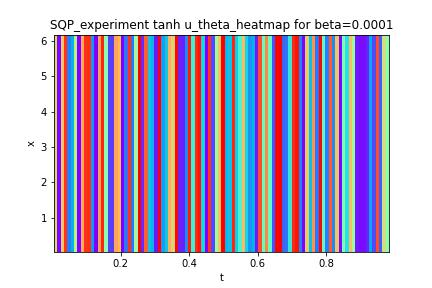
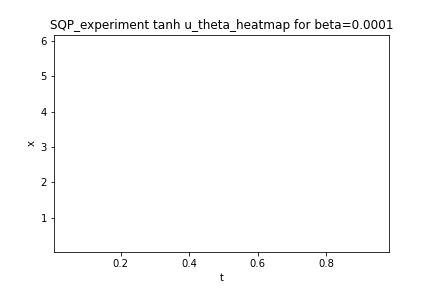
current

diff --git a/pde_cons_opt_code/main1.py b/pde_cons_opt_code/main1.py
@@ -11,7 +11,6 @@ from PINN_experiment.optim_PINN import PINN
 from l1_Penalty_experiment.optim_l1_penalty import l1Penalty
 from l2_Penalty_experiment.optim_l2_penalty import l2Penalty
 from linfinity_Penalty_experiment.optim_linfinity_penalty import linfinityPenalty
-from Han_Penalty_experiment.optim_han_penalty import HanPenalty
 from Cubic_Penalty_experiment.optim_cubic_penalty import CubicPenalty
 from Augmented_Lag_experiment.optim_aug_lag import AugLag
 from Pillo_Penalty_experiment.optim_pillo_penalty import PilloPenalty
@@ -37,10 +36,10 @@ from multiprocessing import Pool
 
 
 #######################################config for data#######################################
-beta_list = [10**-4, 30]
-# beta_list = [30]
+# beta_list = [10**-4, 30]
+beta_list = [10**-4]
 N=100
-M=100
+M=5
 data_key_num = 1000
 dim = 2
 Datas = Data(N=N, M=M, key_num=data_key_num, dim=dim)
@@ -65,8 +64,8 @@ eval_dataloader = DataLoader(Data=eval_Datas)
 NN_key_num = 345
 key = random.PRNGKey(NN_key_num)
 # features = [10, 10, 10, 10, 1]
-features = [10, 10, 1] # 搭配 SQP_num_iter = 100， hessian_param = 0.6 # 0.6最好， init_stepsize = 1.0， line_search_tol = 0.001， line_search_max_iter = 30， line_search_condition = "strong-wolfe" ，line_search_decrease_factor = 0.8
-# features = [2, 3, 1]
+# features = [10, 10, 1] # 搭配 SQP_num_iter = 100， hessian_param = 0.6 # 0.6最好， init_stepsize = 1.0， line_search_tol = 0.001， line_search_max_iter = 30， line_search_condition = "strong-wolfe" ，line_search_decrease_factor = 0.8
+features = [2, 3, 1]
 ####################################### config for NN #######################################
 
 
@@ -77,7 +76,7 @@ penalty_param = 1
 
 
 ####################################### config for lagrange multiplier #######################################
-mul = jnp.ones(2*M) # initial  for Han_penalty_experiment, Pillo_Penalty_experiment, Augmented_Lag_experiment, New_Augmented_Lag_experiment
+mul = jnp.ones(2*M) # initial  for Pillo_Penalty_experiment, Augmented_Lag_experiment, New_Augmented_Lag_experiment
 mul_num_echos = 10 # for Pillo_Penalty_experiment
 alpha = 150 # for New_Augmented_Lag_experiment
 ####################################### config for lagrange multiplier #######################################
@@ -85,8 +84,9 @@ alpha = 150 # for New_Augmented_Lag_experiment
 
 ####################################### config for Adam #######################################
 uncons_optim_num_echos = 2000
-uncons_optim_learning_rate = 0.01
-cons_violation = 10 # threshold for updating penalty param
+uncons_optim_learning_rate = 0.001
+cons_violation = 0.001 # threshold for updating penalty param
+panalty_param_upper_bound = 150
 ####################################### config for Adam #######################################
 
 
@@ -116,18 +116,17 @@ group_labels = list(range(1,2*M+1)) * 2
 #                     'l2_Penalty_experiment', \
 #                     'linfinity_Penalty_experiment', \
 #                     'Cubic_Penalty_experiment', \
-#                     'Han_penalty_experiment', \
-#                     'Augmented_Lag_experiment', \    #得有increase penalty param
+#                     'Augmented_Lag_experiment', \    
 #                     'Pillo_Penalty_experiment', \
-#                     'New_Augmented_Lag_experiment',\  #问题
-#                     'Fletcher_Penalty_experiment', \  #问题
+#                     'New_Augmented_Lag_experiment',\  #检查
+#                     'Fletcher_Penalty_experiment', \  
 #                     'SQP_experiment']:
-for experiment in ['SQP_experiment']:
-
-    for activation_input in ['sin', \
-                            'tanh', \
-                            'cos']:
-    # for activation_input in ['tanh']:
+# for experiment in ['PINN_experiment',"l1_Penalty_experiment",'l2_Penalty_experiment','linfinity_Penalty_experiment','Cubic_Penalty_experiment']:
+for experiment in ['Augmented_Lag_experiment']:
+    # for activation_input in ['sin', \
+    #                         'tanh', \
+    #                         'cos']:
+    for activation_input in ['identity']:
 
         if activation_input == "sin":
             activation = jnp.sin
@@ -135,8 +134,13 @@ for experiment in ['SQP_experiment']:
             activation = nn.tanh
         elif activation_input == "cos":
             activation = jnp.cos
-            
+        elif activation_input == "identity":
+            def identity(x):
+                return x
+            activation = identity
+
         activation_name = activation.__name__
+        
 
         absolute_error_list = []
         l2_relative_error_list = []
@@ -177,9 +181,6 @@ for experiment in ['SQP_experiment']:
                 elif experiment == "linfinity_Penalty_experiment":
                     loss = linfinityPenalty(model, data, sample_data, IC_sample_data, ui[0], beta, \
                                 N, M)
-                elif experiment == "Han_penalty_experiment":
-                    loss = HanPenalty(model, data, sample_data, IC_sample_data, ui[0], beta, \
-                                N, M)
                 elif experiment == "Cubic_Penalty_experiment":
                     loss = CubicPenalty(model, data, sample_data, IC_sample_data, ui[0], beta, \
                                 N, M)
@@ -196,7 +197,7 @@ for experiment in ['SQP_experiment']:
                     loss = FletcherPenalty(model, data, sample_data, IC_sample_data, ui[0], beta, \
                                 N, M)
                 
-                optim = Optim(model, loss, cons_violation)
+                optim = Optim(model, loss, cons_violation, panalty_param_upper_bound)
                 updated_params, loss_list = optim.adam_update(params, \
                                                         uncons_optim_num_echos, uncons_optim_learning_rate, \
                                                         penalty_param, penalty_param_update_factor, \

diff --git a/pde_cons_opt_code/uncons_opt.py b/pde_cons_opt_code/uncons_opt.py
@@ -15,10 +15,11 @@ from flax.core.frozen_dict import unfreeze
 # from flat_params import FlatParams
 
 class Optim:
-    def __init__(self, model, Loss, cons_violation) -> None:
+    def __init__(self, model, Loss, cons_violation, panalty_param_upper_bound) -> None:
         self.model = model
         self.Loss = Loss
         self.cons_violation = cons_violation
+        self.panalty_param_upper_bound = panalty_param_upper_bound
 
 
     def update(self, opt, grads, optim_object):
@@ -34,17 +35,7 @@ class Optim:
         
         opt = optax.adam(learning_rate)
         loss_list = []
-        if experiment == "Han_penalty_experiment":
-            for _ in tqdm(range(num_echos)):
-                l, grads = value_and_grad(self.Loss.loss, 0)(params_mul, penalty_param)
-                eq_cons = self.Loss.eq_cons(params)
-                eq_cons_violation = jnp.square(jnp.linalg.norm(eq_cons,ord=2))
-                if eq_cons_violation > self.cons_violation:
-                    penalty_param = penalty_param_update_factor * penalty_param
-                params_mul = self.update(opt=opt, grads=grads, optim_object=params_mul)
-                loss_list.append(l)
-
-        elif experiment == "Pillo_Penalty_experiment":
+        if experiment == "Pillo_Penalty_experiment":
             for _ in tqdm(range(num_echos)):
                 for i in range(mul_num_echos):
                     mul_l, mul_grads = value_and_grad(self.Loss.get_mul_obj, 1)(params, mul, penalty_param)
@@ -53,7 +44,7 @@ class Optim:
                 l, grads = value_and_grad(self.Loss.loss, 0)(params, updated_mul, penalty_param)
                 eq_cons = self.Loss.eq_cons(params)
                 eq_cons_violation = jnp.square(jnp.linalg.norm(eq_cons,ord=2))
-                if eq_cons_violation > self.cons_violation:
+                if eq_cons_violation > self.cons_violation and penalty_param < self.panalty_param_upper_bound:
                     penalty_param = penalty_param_update_factor * penalty_param
                 params = self.update(opt=opt, grads= grads, optim_object=params)
                 loss_list.append(l)
@@ -63,10 +54,8 @@ class Optim:
                 l, grads = value_and_grad(self.Loss.loss, 0)(params, mul, penalty_param)
                 eq_cons = self.Loss.eq_cons(params)
                 eq_cons_violation = jnp.square(jnp.linalg.norm(eq_cons,ord=2))
-
                 mul = mul + penalty_param * eq_cons
-                # print("current cons loss: ", str(eq_cons_violation)+", "+str(penalty_param))
-                if eq_cons_violation > self.cons_violation:
+                if eq_cons_violation > self.cons_violation and penalty_param < self.panalty_param_upper_bound:
                     penalty_param = penalty_param_update_factor * penalty_param
                 params = self.update(opt=opt, grads= grads, optim_object=params)
                 loss_list.append(l)
@@ -84,11 +73,7 @@ class Optim:
                 gx = pd.DataFrame.from_dict(unfreeze(jacfwd(self.Loss.l_k, 0)(params)["params"])).values.flatten()
                 Ax_pinv_gx = lambda x, y: (x * y).sum(axis=(1,2)) if y.ndim == 3 else (x * y).sum(axis=1)
                 mul = jnp.array(list(map(Ax_pinv_gx, gx, Ax_pinv))).sum(axis=0)
-                
-
-                # mul = mul + penalty_param * eq_cons
-                # print("current cons loss: ", str(eq_cons_violation))
-                if eq_cons_violation > self.cons_violation:
+                if eq_cons_violation > self.cons_violation and penalty_param < self.panalty_param_upper_bound:
                     penalty_param = penalty_param_update_factor * penalty_param
                 params = self.update(opt=opt, grads= grads, optim_object=params)
                 loss_list.append(l)
@@ -98,7 +83,7 @@ class Optim:
                 l, grads = value_and_grad(self.Loss.loss, 0)(params, penalty_param)
                 eq_cons = self.Loss.eq_cons(params)
                 eq_cons_violation = jnp.square(jnp.linalg.norm(eq_cons,ord=2))
-                if eq_cons_violation > self.cons_violation:
+                if eq_cons_violation > self.cons_violation and penalty_param < self.panalty_param_upper_bound:
                     penalty_param = penalty_param_update_factor * penalty_param
                 params = self.update(opt=opt, grads= grads, optim_object=params)
                 loss_list.append(l)
@@ -109,8 +94,7 @@ class Optim:
                 params = self.update(opt=opt, grads = grads, optim_object=params)
                 eq_cons = self.Loss.eq_cons(params)
                 eq_cons_violation = jnp.square(jnp.linalg.norm(eq_cons,ord=2))
-                # print("current loss:", str(eq_cons_violation))
-                if eq_cons_violation > self.cons_violation:
+                if eq_cons_violation > self.cons_violation and penalty_param < self.panalty_param_upper_bound:
                     penalty_param = penalty_param_update_factor * penalty_param
                 loss_list.append(l)
         return params, jnp.array(loss_list)

diff --git a/pde_cons_opt_code/data.py b/pde_cons_opt_code/data.py
@@ -15,30 +15,32 @@ class Data:
         xi = random.uniform(key, shape=(self.dim-1,self.N), minval=x_min, maxval=x_max)
         ti = random.uniform(key, shape=(self.dim-1,self.N), minval=t_min, maxval=t_max)
         ui = Transport_eq(beta=beta).solution(xi, ti)
-        return xi, ti, ui
+        # return xi, ti, ui
+        return jnp.sort(xi), jnp.sort(ti), jnp.sort(ui)
     
 
     def sample_data(self, x_min, x_max, t_min, t_max):
         key = random.PRNGKey(self.key_num)
         xj = random.uniform(key, shape=(self.dim-1,self.M), minval=x_min, maxval=x_max)
         tj = random.uniform(key, shape=(self.dim-1,self.M), minval=t_min, maxval=t_max)
-        return xj, tj
+        # return xj, tj
+        return jnp.sort(xj), jnp.sort(tj)
     
 
-    def generate_IC_data(self, min, max, beta):
-        key = random.PRNGKey(self.key_num)
-        IC_data = random.uniform(key, shape=(self.dim-1,self.N), minval=min, maxval=max)
-        xi = IC_data
-        ti = jnp.zeros(self.N)
-        ui = Transport_eq(beta=beta).solution(xi, ti)
-        return xi, ti, ui
+    # def generate_IC_data(self, min, max, beta):
+    #     key = random.PRNGKey(self.key_num)
+    #     IC_data = random.uniform(key, shape=(self.dim-1,self.N), minval=min, maxval=max)
+    #     xi = IC_data
+    #     ti = jnp.zeros(self.N)
+    #     ui = Transport_eq(beta=beta).solution(xi, ti)
+    #     return xi, ti, ui
     
 
-    def generate_boundary_data(self, min, max, beta):
-        key = random.PRNGKey(self.key_num)
-        boundary_data = random.uniform(key, shape=(self.dim-1,self.N), minval=min, maxval=max)
-        ti = boundary_data
-        xi = jnp.zeros(self.N)
-        ui = Transport_eq(beta=beta).solution(2*jnp.pi, ti)
-        return xi, ti, ui
+    # def generate_boundary_data(self, min, max, beta):
+    #     key = random.PRNGKey(self.key_num)
+    #     boundary_data = random.uniform(key, shape=(self.dim-1,self.N), minval=min, maxval=max)
+    #     ti = boundary_data
+    #     xi = jnp.zeros(self.N)
+    #     ui = Transport_eq(beta=beta).solution(2*jnp.pi, ti)
+    #     return xi, ti, ui
 

diff --git a/pde_cons_opt_code/NN.py b/pde_cons_opt_code/NN.py
@@ -12,6 +12,7 @@ class NN(nn.Module):
             x = nn.Dense(feat)(x)
             if i != len(self.features) - 1:
                 x = self.activation(x)
+                # x = x
         return x
     
     def init_params(self, key, data):

diff --git a/pde_cons_opt_code/Transport_eq.py b/pde_cons_opt_code/Transport_eq.py
@@ -6,7 +6,8 @@ class Transport_eq:
 
 
     def solution(self, x, t):
-        u = jnp.sin(x - self.beta*t)
+        # u = jnp.sin(x - self.beta*t)
+        u = x - self.beta*t
         return u
     
 
